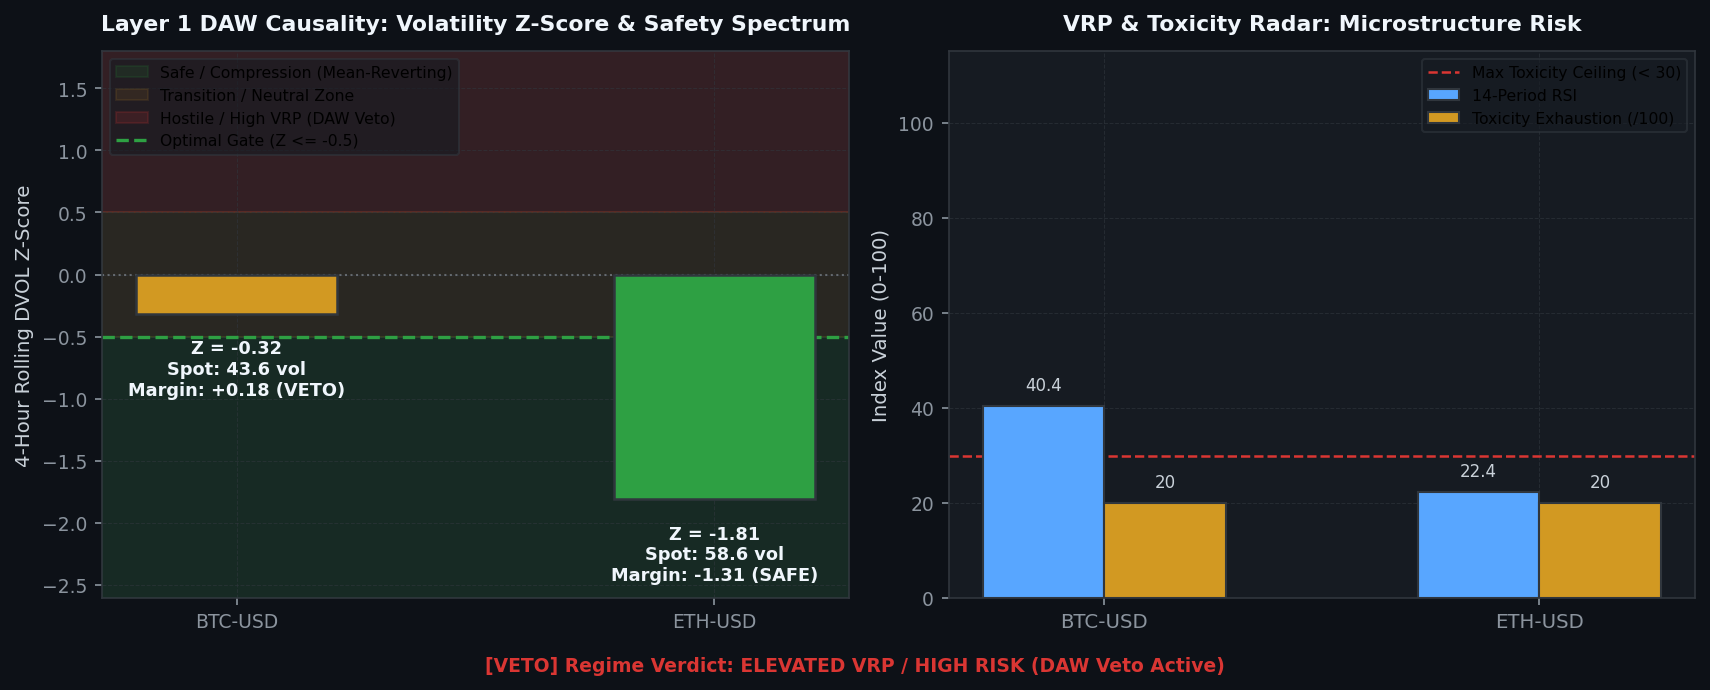
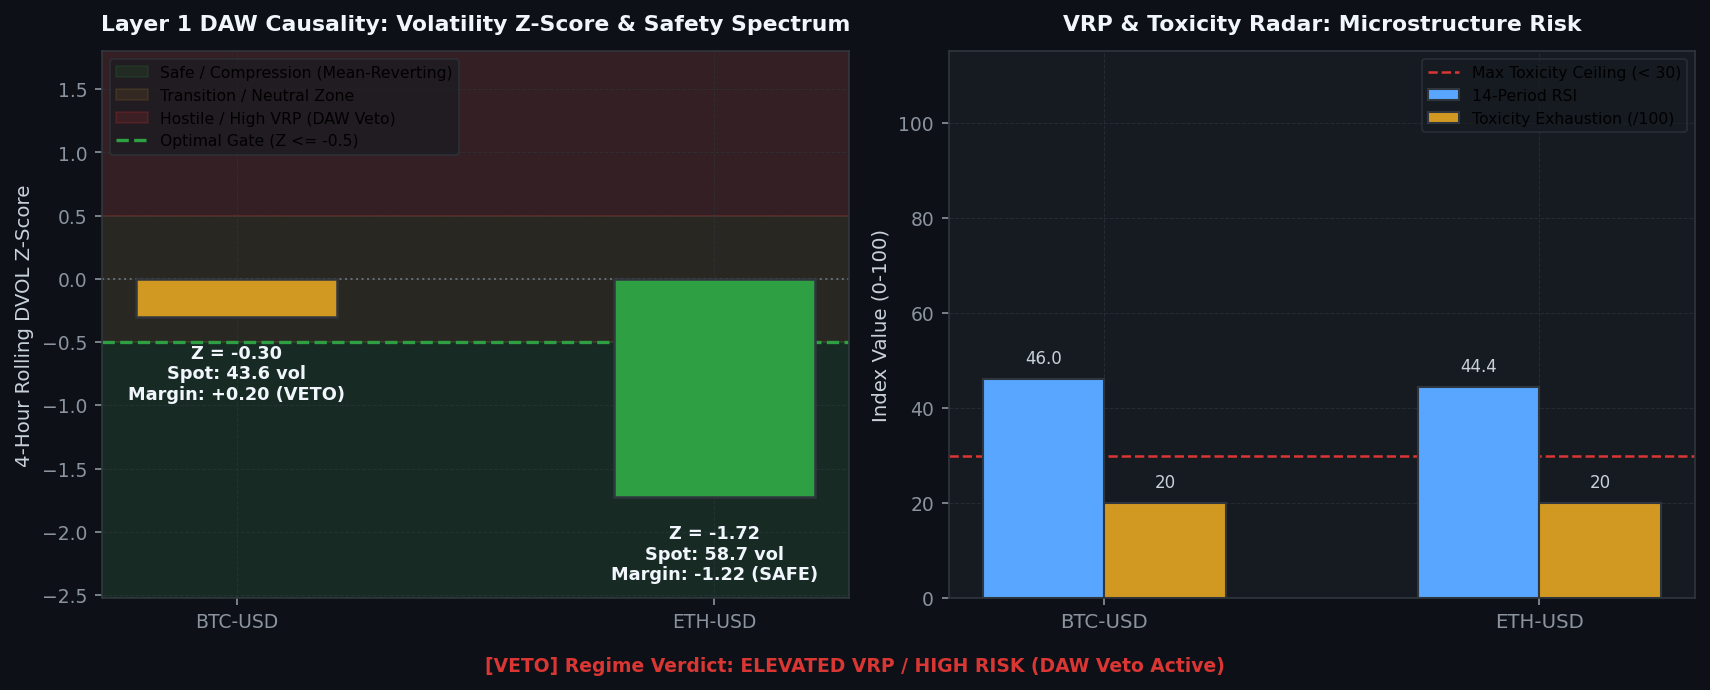
[coinbase] Hourly Status & Visual Intelligence Update: 2026-08-24 13:00:18

diff --git a/coinbase/data/hourly_status_report.md b/coinbase/data/hourly_status_report.md
@@ -3,7 +3,7 @@ layout: default
 ---
 
 # 🛡 Unified Trading System Hourly Status & Visual Intelligence
-> **Report Generated**: `2026-08-24 12:49:42 PM PDT (2026-08-24 19:49:42 UTC)`  
+> **Report Generated**: `2026-08-24 01:00:01 PM PDT (2026-08-24 20:00:01 UTC)`  
 > **System Health**: **🟡 DEGRADED / RESTRICTED** | **Win Rate**: `0.0%` | **Completed Trades**: `0`
 
 
@@ -15,13 +15,13 @@ Real-time Deribit implied volatility (DVOL) proxy tracking against mathematicall
 
 | Symbol | Proxy Oracle | Live Z-Score | Optimal Limit (YSP) | Safety Margin | Live VRP | Optimal VRP (YSP) | DAW Safety Verdict |
 | :--- | :--- | :--- | :--- | :--- | :--- | :--- | :--- |
-| `AVAX-USD` | DVOL_BTC | **-0.32** | **-0.50** | **+0.18** | **-5.67** | 5.0 | 🔴 DAW VETOED |
-| `ETH-USD` | DVOL_ETH | **-1.81** | **-0.50** | **-1.31** | **+9.39** | 5.0 | 🔴 DAW VETOED |
-| `ADA-USD` | DVOL_BTC | **-0.32** | **-0.50** | **+0.18** | **-5.70** | 5.0 | 🔴 DAW VETOED |
-| `DOGE-USD` | DVOL_BTC | **-0.32** | **-0.50** | **+0.18** | **-5.70** | 5.0 | 🔴 DAW VETOED |
-| `BTC-USD` | DVOL_BTC | **-0.32** | **-0.50** | **+0.18** | **-5.70** | 5.0 | 🔴 DAW VETOED |
-| `LINK-USD` | DVOL_BTC | **-0.32** | **-0.50** | **+0.18** | **-5.61** | 5.0 | 🔴 DAW VETOED |
-| `SOL-USD` | DVOL_BTC | **-0.32** | **-0.50** | **+0.18** | **-5.70** | 5.0 | 🔴 DAW VETOED |
+| `AVAX-USD` | DVOL_BTC | **-0.28** | **-0.50** | **+0.22** | **-5.82** | 5.0 | 🔴 DAW VETOED |
+| `ETH-USD` | DVOL_ETH | **-1.75** | **-0.50** | **-1.25** | **+9.26** | 5.0 | 🔴 DAW VETOED |
+| `ADA-USD` | DVOL_BTC | **-0.28** | **-0.50** | **+0.22** | **-5.72** | 5.0 | 🔴 DAW VETOED |
+| `DOGE-USD` | DVOL_BTC | **-0.28** | **-0.50** | **+0.22** | **-5.84** | 5.0 | 🔴 DAW VETOED |
+| `BTC-USD` | DVOL_BTC | **-0.28** | **-0.50** | **+0.22** | **-5.82** | 5.0 | 🔴 DAW VETOED |
+| `LINK-USD` | DVOL_BTC | **-0.28** | **-0.50** | **+0.22** | **-5.82** | 5.0 | 🔴 DAW VETOED |
+| `SOL-USD` | DVOL_BTC | **-0.28** | **-0.50** | **+0.22** | **-5.82** | 5.0 | 🔴 DAW VETOED |
 
 
 
@@ -32,17 +32,17 @@ The system's Layer 1 DAW Causal Gate continuously gauges execution safety using 
   - 🟢 **Safe / Compression ($Z \le Z_{opt}$)**: Derivatives market prices low tail risk. Order books are deep, adverse selection is minimal, and TimesFM zero-shot scalps operate at peak win rates.
   - 🔴 **Hostile / Expansion ($Z > Z_{opt}$)**: Options pricing aggressive shock risk. Taker order sweeps cause adverse selection; **DAW Causality Veto is active** to preserve capital.
 ---
-## 2. 🔒 MLOps & Trading Telemetry Provenance & Utilization Certification: 🔴 CRITICAL SYNC/UTILIZATION FAILURE
+## 2. 🔒 MLOps & Trading Telemetry Provenance & Utilization Certification: 🟢 ALL SYNCED & CERTIFIED
 We hereby certify that the mission-critical algorithmic data assets uploaded by the Mac Mini MLOps node have been audited for freshness, fall within their strict operational due dates, and are actively being utilized by the live EC2 HFT Trader.
 
 | Status | Data Asset | Freshness / State | Details / Timestamp |
 | :---: | :--- | :--- | :--- |
-| ✅ | **Go-List JSON** | Fresh (0.03h old) | 08-24 12:47 |
-| ✅ | **TimesFM Forecasts** | Fresh (0.00h old) | 08-24 12:49 |
-| ❌ | **Holding Times config** | STALE! (75.8h old) | Limit 17.8h |
-| ✅ | **BTC DVOL Cache** | Fresh (0.00h old) | 08-24 12:49 |
-| ✅ | **ETH DVOL Cache** | Fresh (0.00h old) | 08-24 12:49 |
-| ✅ | **Live Trading Telemetry** | Fresh (0.01h old) | 08-24 12:49 |
+| ✅ | **Go-List JSON** | Fresh (0.07h old) | 08-24 12:56 |
+| ✅ | **TimesFM Forecasts** | Fresh (0.10h old) | 08-24 12:54 |
+| ✅ | **Holding Times config** | Fresh (0.07h old) | 08-24 12:56 |
+| ✅ | **BTC DVOL Cache** | Fresh (0.01h old) | 08-24 12:59 |
+| ✅ | **ETH DVOL Cache** | Fresh (0.01h old) | 08-24 12:59 |
+| ✅ | **Live Trading Telemetry** | Fresh (0.00h old) | 08-24 13:00 |
 
 <br>
 
@@ -55,7 +55,7 @@ Layer-by-layer tick evaluation waterfall and asset-specific performance tracking
 
 | Funnel Filter Layer | Total Rejections | % of Rejections |
 | :--- | :--- | :--- |
-| Tier 1: Macro Volatility Tensor Gate (Omega_macro) | `40,370` | **100.0%** |
+| Tier 1: Macro Volatility Tensor Gate (Omega_macro) | `48` | **100.0%** |
 | Tier 2: Unified Transport & Directional Engine | `0` | **0.0%** |
 | Tier 3: Continuous Hawkes-SFGK Pricer (HAS-Pricer) | `0` | **0.0%** |
 | System: Asset Cooldown Active | `0` | **0.0%** |
@@ -63,18 +63,6 @@ Layer-by-layer tick evaluation waterfall and asset-specific performance tracking
 | Legacy / Unknown Veto | `0` | **0.0%** |
 
 
-
-### Active Universe Performance & Drift Matrix
-
-| Asset | Trades | Win Rate | Loss Streak | Status |
-| :--- | :--- | :--- | :--- | :--- |
-| `AVAX-USD` | 22 | 90.9% | 0 | 🟢 OK |
-| `LINK-USD` | 28 | 89.3% | 0 | 🟢 OK |
-| `DOGE-USD` | 22 | 86.4% | 1 | 🟢 OK |
-| `ADA-USD` | 31 | 90.3% | 0 | 🟢 OK |
-| `SOL-USD` | 6 | 100.0% | 0 | 🟢 OK |
-| `BTC-USD` | 3 | 66.7% | 1 | 🟢 OK |
-| `ETH-USD` | 11 | 81.8% | 1 | 🟢 OK |
 
 ---
 ## 3. 💰 Coinbase Treasury, Balances & Active Orders
@@ -92,12 +80,9 @@ Live balance sheet and open maker liquidity positions from Coinbase CDP.
 | `ETH-USD` | SELL | 2514.95 | `dd05ead3-9b5a-497a-ac26-256d87814b6f` |
 | `ADA-USD` | SELL | 0.22067 | `1f0fb426-0404-4acc-b5d6-738ceb352479` |
 | `ETH-USD` | SELL | 2477.01 | `692335b5-fa56-42f1-8a4c-de724007a342` |
-| `LINK-USD` | BUY | 11.523 | `a8cd91af-b0a3-426f-a673-6daf89c51f48` |
 | `AVAX-USD` | BUY | 7.512 | `a90a3078-8c18-4d6b-b207-68245b7a2324` |
-| `DOGE-USD` | BUY | 0.08894 | `e96d645a-054d-417e-9138-337ced614ac4` |
-| `ADA-USD` | BUY | 0.21904 | `735cf17a-dd00-47b2-b812-3b3f72dc0a80` |
-| `AVAX-USD` | BUY | 7.522 | `fd384f69-4ff0-49b9-87aa-970cfc0710d9` |
-| `LINK-USD` | BUY | 11.537 | `e05c2cab-bbd9-485d-a2c1-d8c825b5f088` |
+| `AVAX-USD` | BUY | 7.512 | `0b0a69ab-0416-47aa-819d-2f2e2e8986f4` |
+| `ADA-USD` | BUY | 0.21831 | `15d1d706-ab64-409b-9293-79ec12227491` |
 
 
 
@@ -105,14 +90,14 @@ Live balance sheet and open maker liquidity positions from Coinbase CDP.
 ## 4. 🤖 Foundation Model MLOps & Pipeline Orchestration
 Weekly Algorithmic Mega Cap selection, Zero-shot multi-step forward return forecasts, and VSTEF parameter grid search status.
 
-- **TimesFM Forecast DB**: 🟢 Updated 0.0h ago (2026-08-24 12:48 PM PDT)
-- **Last Weekly VSTEF Optimization**: `2026-08-24 01:12:31 AM PDT`
-- **Next Scheduled VSTEF Run**: `2026-08-30 07:00:00 PM PDT (Monday 02:00 UTC)` (Countdown: **150.2h (6d 6h 10m)**)
+- **TimesFM Forecast DB**: 🟢 Updated 0.1h ago (2026-08-24 12:54 PM PDT)
+- **Last Weekly VSTEF Optimization**: `2026-08-24 12:54:26 PM PDT`
+- **Next Scheduled VSTEF Run**: `2026-08-30 07:00:00 PM PDT (Monday 02:00 UTC)` (Countdown: **150.0h (6d 5h 59m)**)
 - **Promoted Parameter Gates**: $Z_{DVOL} \le -0.5$ | Holding Horizon $= 12\text{h}$
 
 ### Algorithmic Mega Cap Selection
-- **Last Run (Confirmation)**: `2026-08-24 12:47:59 PM PDT`
-- **Next Scheduled Run**: `2026-08-30 06:00:00 PM PDT (Monday 01:00 UTC)` (Countdown: **149.2h (6d 5h 10m)**)
+- **Last Run (Confirmation)**: `2026-08-24 12:56:08 PM PDT`
+- **Next Scheduled Run**: `2026-08-30 06:00:00 PM PDT (Monday 01:00 UTC)` (Countdown: **149.0h (6d 4h 59m)**)
 - **Selected Mega Cap Universe**: `BTC, ADA, ETH, DOGE, SUI, XRP, SOL, ZEC`
 
 
@@ -126,19 +111,19 @@ Visualizing the impact of the VSTEF (Volatility-Synchronized Stop-Tightening Exe
 ## 5. 🖥 Multi-Node Infrastructure & Watchdog Matrix
 ```text
 ================================================================================
-   🛡  SFGK FUNNEL GUARDIAN WATCHDOG (HFT ONLY) |  07:49:40 PM
-   CPU:  27.9%  |  MEM:   6.9% (14.4GB / 15.4GB Free)
+   🛡  SFGK FUNNEL GUARDIAN WATCHDOG (HFT ONLY) |  08:00:00 PM
+   CPU:   0.1%  |  MEM:   5.9% (14.5GB / 15.4GB Free)
 ================================================================================
 SERVICE              | PID      | STATUS          | RESTARTS | INFO
 --------------------------------------------------------------------------------
-L3 Consumer          | 2586303  | RUNNING         | -        | Continuous Websocket Feed
-Trader AVAX-USD      | 2586971  | RUNNING         | 2        | Evaluating Funnel/Polling Order
-Trader ETH-USD       | 2587220  | COOL-DOWN       | 3        | Next run in 14.8s
-Trader ADA-USD       | 2587221  | COOL-DOWN       | 3        | Next run in 14.8s
-Trader DOGE-USD      | 2587222  | COOL-DOWN       | 3        | Next run in 14.8s
-Trader BTC-USD       | 2587223  | COOL-DOWN       | 3        | Next run in 14.8s
-Trader LINK-USD      | 2587224  | RUNNING         | 3        | Evaluating Funnel/Polling Order
-Trader SOL-USD       | 2587225  | COOL-DOWN       | 3        | Next run in 14.8s
+L3 Consumer          | 2595100  | RUNNING         | -        | Continuous Websocket Feed
+Trader AVAX-USD      | 2596970  | COOL-DOWN       | 7        | Next run in 5.0s
+Trader ETH-USD       | 2596971  | COOL-DOWN       | 7        | Next run in 5.0s
+Trader ADA-USD       | 2596972  | RUNNING         | 7        | Evaluating Funnel/Polling Order
+Trader DOGE-USD      | 2595279  | COOL-DOWN       | 1        | Next run in 10.0s
+Trader BTC-USD       | 2596973  | COOL-DOWN       | 7        | Next run in 5.0s
+Trader LINK-USD      | 2596974  | COOL-DOWN       | 7        | Next run in 5.0s
+Trader SOL-USD       | 2596975  | COOL-DOWN       | 7        | Next run in 5.0s
 ================================================================================
 ```
 
@@ -158,46 +143,7 @@ Trader SOL-USD       | 2587225  | COOL-DOWN       | 3        | Next run in 14.8s
 <summary><b>Click to expand raw incident logs</b></summary>
 
 ```text
-logs/watchdog_Trader_DOGE_USD.log:2026-08-23 06:08:22 [WARNING] [async_sfgk_trader.py:_execute_api_call:213] [DOGE-USD] Coinbase API Call Exception (Attempt 1/5). Func: get_product | Sleeping 1.14s... | Error: 429 Client Error: Too Many Requests 
-logs/watchdog_Trader_DOGE_USD.log:2026-08-23 06:08:22 [WARNING] [async_sfgk_trader.py:_execute_api_call:213] [DOGE-USD] Coinbase API Call Exception (Attempt 1/5). Func: get_product | Sleeping 1.24s... | Error: 429 Client Error: Too Many Requests 
-logs/watchdog_Trader_DOGE_USD.log:2026-08-23 18:20:15 [ERROR] [async_sfgk_trader.py:fetch_live_state:527] [DOGE-USD] CRITICAL: Failed to fetch DVOL from oracle or check dependencies: Extra data: line 12 column 2 (char 339) (Fail-Closed)
-logs/watchdog_Trader_DOGE_USD.log:    raise JSONDecodeError("Extra data", s, end)
-logs/watchdog_Trader_DOGE_USD.log:json.decoder.JSONDecodeError: Extra data: line 12 column 2 (char 339)
-logs/watchdog_Trader_DOGE_USD.log:2026-08-24 08:35:42 [WARNING] [async_sfgk_trader.py:_execute_api_call:213] [DOGE-USD] Coinbase API Call Exception (Attempt 1/5). Func: get_order | Sleeping 1.17s... | Error: ('Connection aborted.', ConnectionResetErr
-logs/watchdog_Trader_ETH_USD.log:2026-08-23 07:45:04 [ERROR] [async_sfgk_trader.py:fetch_live_state:492] [ETH-USD] CRITICAL: Failed to fetch DVOL from oracle or check dependencies: Extra data: line 12 column 2 (char 328) (Fail-Closed)
-logs/watchdog_Trader_ETH_USD.log:    raise JSONDecodeError("Extra data", s, end)
-logs/watchdog_Trader_ETH_USD.log:json.decoder.JSONDecodeError: Extra data: line 12 column 2 (char 328)
-logs/watchdog_Trader_ETH_USD.log:2026-08-23 07:49:57 [WARNING] [async_sfgk_trader.py:_execute_api_call:213] [ETH-USD] Coinbase API Call Exception (Attempt 1/5). Func: get_product | Sleeping 1.26s... | Error: 429 Client Error: Too Many Requests 
-logs/watchdog_Trader_ETH_USD.log:2026-08-23 08:52:35 [WARNING] [async_sfgk_trader.py:_execute_api_call:213] [ETH-USD] Coinbase API Call Exception (Attempt 1/5). Func: get_product | Sleeping 1.34s... | Error: 429 Client Error: Too Many Requests 
-logs/watchdog_Trader_ETH_USD.log:2026-08-23 08:52:35 [WARNING] [async_sfgk_trader.py:_execute_api_call:213] [ETH-USD] Coinbase API Call Exception (Attempt 1/5). Func: get_product | Sleeping 1.24s... | Error: 429 Client Error: Too Many Requests 
-logs/watchdog_Trader_ETH_USD.log:2026-08-23 09:26:20 [WARNING] [async_sfgk_trader.py:_execute_api_call:213] [ETH-USD] Coinbase API Call Exception (Attempt 1/5). Func: get_product | Sleeping 1.42s... | Error: 429 Client Error: Too Many Requests 
-logs/watchdog_Trader_ETH_USD.log:2026-08-23 22:09:23 [WARNING] [async_sfgk_trader.py:_execute_api_call:213] [ETH-USD] Coinbase API Call Exception (Attempt 1/5). Func: get_product | Sleeping 1.35s... | Error: 429 Client Error: Too Many Requests 
-logs/watchdog_Trader_ETH_USD.log:2026-08-23 22:09:23 [WARNING] [async_sfgk_trader.py:_execute_api_call:213] [ETH-USD] Coinbase API Call Exception (Attempt 1/5). Func: get_product | Sleeping 1.35s... | Error: 429 Client Error: Too Many Requests 
-logs/watchdog_Trader_ETH_USD.log:2026-08-24 05:05:07 [WARNING] [async_sfgk_trader.py:_execute_api_call:213] [ETH-USD] Coinbase API Call Exception (Attempt 1/5). Func: get_order | Sleeping 1.46s... | Error: 502 Server Error: Bad Gateway <html>
[1 lines of base64/hex data omitted]
-logs/watchdog_Trader_ETH_USD.log:    <div id="cloudflare-error" style="display:none;">::CAPTCHA_BOX:: ::IM_UNDER_ATTACK_BOX:: <div class="cf-error-details cf-error-502">
-logs/watchdog_Trader_ETH_USD.log:  <p>The web server reported a bad gateway error.</p>
-logs/watchdog_Trader_ETH_USD.log:    <li>Error reference number: 502</li>
-logs/watchdog_Trader_ETH_USD.log:</div> ::CLOUDFLARE_ERROR_1000S_BOX:: ::ALWAYS_ONLINE_NO_COPY_BOX::</div>
-logs/watchdog_Trader_ETH_USD.log:    <div class="cds-large-llfbhh8 cds-light-l1k3tbpe" style="--foreground:rgb(var(--gray100));--foreground-muted:rgb(var(--gray60));--background:rgb(var(--gray0));--background-alternate:rgb(var(--gray5));--background-
-logs/watchdog_Trader_ETH_USD.log:2026-08-24 08:35:39 [WARNING] [async_sfgk_trader.py:_execute_api_call:213] [ETH-USD] Coinbase API Call Exception (Attempt 1/5). Func: get_order | Sleeping 1.39s... | Error: ('Connection aborted.', ConnectionResetError
-logs/watchdog_Trader_LINK_USD.log:2026-08-23 08:52:34 [WARNING] [async_sfgk_trader.py:_execute_api_call:213] [LINK-USD] Coinbase API Call Exception (Attempt 1/5). Func: get_product | Sleeping 1.23s... | Error: 429 Client Error: Too Many Requests 
-logs/watchdog_Trader_LINK_USD.log:2026-08-23 09:26:20 [WARNING] [async_sfgk_trader.py:_execute_api_call:213] [LINK-USD] Coinbase API Call Exception (Attempt 1/5). Func: get_product | Sleeping 1.35s... | Error: 429 Client Error: Too Many Requests 
-logs/watchdog_Trader_LINK_USD.log:2026-08-23 18:20:16 [ERROR] [async_sfgk_trader.py:fetch_live_state:527] [LINK-USD] CRITICAL: Failed to fetch DVOL from oracle or check dependencies: Extra data: line 12 column 2 (char 339) (Fail-Closed)
-logs/watchdog_Trader_LINK_USD.log:    raise JSONDecodeError("Extra data", s, end)
-logs/watchdog_Trader_LINK_USD.log:json.decoder.JSONDecodeError: Extra data: line 12 column 2 (char 339)
-logs/watchdog_Trader_SOL_USD.log:2026-08-23 04:08:20 [WARNING] [async_sfgk_trader.py:_execute_api_call:213] [SOL-USD] Coinbase API Call Exception (Attempt 1/5). Func: get_product | Sleeping 1.43s... | Error: 429 Client Error: Too Many Requests 
-logs/watchdog_Trader_SOL_USD.log:2026-08-23 04:08:20 [WARNING] [async_sfgk_trader.py:_execute_api_call:213] [SOL-USD] Coinbase API Call Exception (Attempt 1/5). Func: get_product | Sleeping 1.27s... | Error: 429 Client Error: Too Many Requests 
-logs/watchdog_Trader_SOL_USD.log:2026-08-23 06:08:22 [WARNING] [async_sfgk_trader.py:_execute_api_call:213] [SOL-USD] Coinbase API Call Exception (Attempt 1/5). Func: get_product | Sleeping 1.11s... | Error: 429 Client Error: Too Many Requests 
-logs/watchdog_Trader_SOL_USD.log:2026-08-23 06:08:22 [WARNING] [async_sfgk_trader.py:_execute_api_call:213] [SOL-USD] Coinbase API Call Exception (Attempt 1/5). Func: get_product | Sleeping 1.18s... | Error: 429 Client Error: Too Many Requests 
-logs/watchdog_Trader_SOL_USD.log:2026-08-23 07:14:47 [WARNING] [async_sfgk_trader.py:_safe_requests_get:249] [SOL-USD] requests.get Exception (Attempt 1/5). Sleeping 1.14s... | Error: HTTPSConnectionPool(host='api.exchange.coinbase.com', port=443): R
-logs/watchdog_Trader_SOL_USD.log:2026-08-23 16:48:07 [ERROR] [async_sfgk_trader.py:fetch_live_state:492] [SOL-USD] CRITICAL: Failed to fetch DVOL from oracle or check dependencies: Extra data: line 13 column 1 (char 339) (Fail-Closed)
-logs/watchdog_Trader_SOL_USD.log:    raise JSONDecodeError("Extra data", s, end)
-logs/watchdog_Trader_SOL_USD.log:json.decoder.JSONDecodeError: Extra data: line 13 column 1 (char 339)
-logs/watchdog_Trader_SOL_USD.log:2026-08-23 18:20:15 [ERROR] [async_sfgk_trader.py:fetch_live_state:527] [SOL-USD] CRITICAL: Failed to fetch DVOL from oracle or check dependencies: Extra data: line 12 column 2 (char 339) (Fail-Closed)
-logs/watchdog_Trader_SOL_USD.log:    raise JSONDecodeError("Extra data", s, end)
-logs/watchdog_Trader_SOL_USD.log:json.decoder.JSONDecodeError: Extra data: line 12 column 2 (char 339)
-logs/watchdog_Trader_SOL_USD.log:2026-08-24 04:03:44 [WARNING] [async_sfgk_trader.py:_safe_requests_get:249] [SOL-USD] requests.get Exception (Attempt 1/5). Sleeping 1.50s... | Error: HTTPSConnectionPool(host='api.exchange.coinbase.com', port=443): R
+No critical errors in current window.
 ```
 </details>
 

diff --git a/coinbase/data/visual_intelligence.md b/coinbase/data/visual_intelligence.md
@@ -4,7 +4,7 @@ title: Visual Intelligence Gallery
 ---
 
 # 📈 Visual Intelligence Gallery
-> **Generated:** `2026-08-24 12:50:00`
+> **Generated:** `2026-08-24 13:00:18`
 > **[Return to Main Status Report](./hourly_status_report.md)**
 
 This page visualizes the internal states, market profiles, and decision criteria of the active **3-Tier Fused Decision Engine** across all layers.
